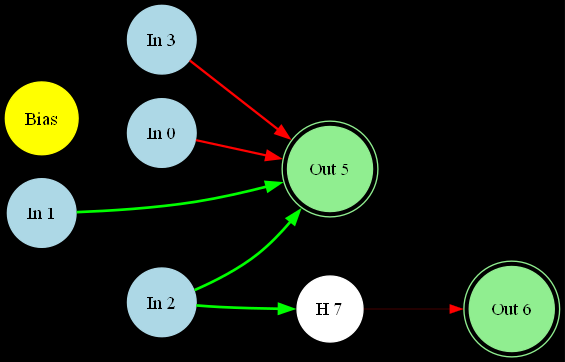
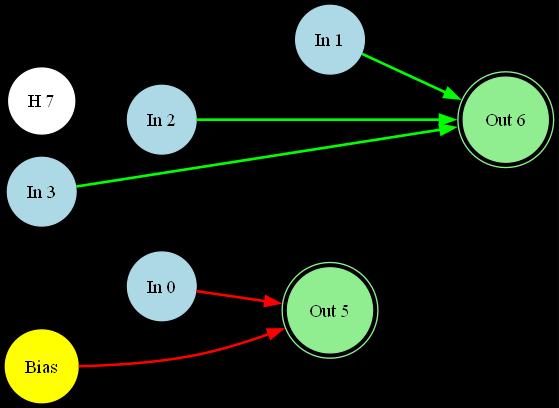
Gotta make sure hits are happening, and hidden node mutation is working correctly

diff --git a/src/NEATRunner.cpp b/src/NEATRunner.cpp
@@ -77,7 +77,8 @@ Genome NEATRunner::initGenome() // at the start of the sim
     // 50% chance per connection
     for (int in = 0; in <= 4; ++in) {
         for (int out = 5; out <= 6; ++out) {
-            if (getRandNum(0, 1) < 0.5) {
+            if (getRandNum(0, 1) < INIT_CONNECTIVITY_RATE)
+            {
                 createConnection(in, out, getRandNum(WEIGHT_MIN, WEIGHT_MAX), true, false, genome);
             }
         }
@@ -146,38 +147,61 @@ void NEATRunner::runGeneration()
 
 // Single genome evaluation (non-parallel)
 double NEATRunner::evaluateGenome(Genome &genome, NeuralNetwork &net, Environment &env) {
-    env.reset();  // Make sure you have this method!
+    env.reset();
     net.reset();
 
-    bool alive= true; 
-    double fit = 0; 
-    for (int step = 0; step < SIM_LIFETIME; step++) {
+    bool alive = true;
+    int numHits = 0;
+    double totalTimeToHit = 0;
+    double closestDistance = std::numeric_limits<double>::infinity();
 
-        if(!alive) 
-            break; 
+    for (int step = 0; step < SIM_LIFETIME; step++)
+    {
+        if (!alive)
+            break;
 
         Eigen::VectorXd input(4);
         input(0) = (env.target.pos(0) - env.rocket.pos(0)) / ENV_WIDTH;
         input(1) = (env.target.pos(1) - env.rocket.pos(1)) / ENV_HEIGHT;
         input(2) = env.rocket.vel(0) / Rocket::MAX_VEL;
         input(3) = env.rocket.vel(1) / Rocket::MAX_VEL;
-        
+
         Eigen::VectorXd output = net.feedForward(input);
         env.rocket.setThrust(output(0));
         env.rocket.setRotation((int)(360 * output(1)));
 
-        // calculate fit 
-        double dist = env.distFromTarget() ; 
-        if (!approxEqual(0.0, dist, 1e-6)){ // if it is 0 it's alr account for 
-            fit+= 1/(dist*dist) ;  // squared distance 
-        }
+        double dist = env.distFromTarget();
+        closestDistance = std::min(closestDistance, dist);
 
+        // Check if target was just hit
+        int previousHits = env.score;
         alive = env.update(0.016f);
 
+        if (env.score > previousHits)
+        {
+            numHits++;
+            totalTimeToHit += step; // Time penalty for slow hits
+        }
     }
-    fit = .9*env.score + fit/SIM_LIFETIME ; 
 
-    return fit; //TODO: MAKE SURE SCORE IS ACCURATEly getting updated when target is eaten  
+    double fitness = 0.0;
+
+    // Primary objective: number of hits (heavily weighted)
+    fitness += numHits * 1000.0;
+
+    // Secondary: efficiency (fewer steps to get hits)
+    if (numHits > 0)
+    {
+        double avgTimePerHit = totalTimeToHit / numHits;
+        double timeEfficiency = 1.0 - (avgTimePerHit / SIM_LIFETIME);
+        fitness += numHits * timeEfficiency * 500.0;
+    }
+
+    // Tertiary: encourage approaching targets even without hits
+    double distanceReward = (1.0 - (closestDistance / std::max(ENV_WIDTH, ENV_HEIGHT))) * 50.0;
+    fitness += distanceReward;
+
+    return std::max(0.0, fitness); // Ensure non-negative //TODO: MAKE SURE SCORE IS ACCURATEly getting updated when target is eaten
 }
 std::vector<ReplayFrame> NEATRunner::evaluateGenome(Genome &genome, NeuralNetwork &net, Environment &env, bool replay) {
     env.reset();  
@@ -259,12 +283,12 @@ void NEATRunner::saveGenerationResults()
 
     gen_json["bestSpecies"] = bestPerformingSpecies->id; 
     gen_json["worstSpecies"] = worstPerformingSpecies->id; 
-    
     gen_json["gensSinceInnovation"] = gensSinceInnovation; 
     
     // replay the champ
     // the best performer from the best species 
-    Genome champ = bestPerformingSpecies->members.front();
+    Genome champ = bestPerformingGenome; 
+    gen_json["champSpecies"] = champ.speciesID; 
     Environment replayEnv(ENV_WIDTH, ENV_HEIGHT);
     NeuralNetwork replayNet(champ, TANH);
 
@@ -571,6 +595,7 @@ double NEATRunner::calcCompDistance(Genome& parent1, Genome& parent2){
 void NEATRunner::keepTrackOfGenomeStats(Genome &genome){
     if(bestRawFit == 0.0 || genome.fitness > bestRawFit){
         bestRawFit = genome.fitness; 
+        bestPerformingGenome= genome; 
     }    
     if(worstRawFit == 0.0 || genome.fitness < worstRawFit){
         worstRawFit = genome.fitness; 

diff --git a/analysis/show_training_results.py b/analysis/show_training_results.py
@@ -15,7 +15,7 @@ from read_data import getConstantData, getGenerationData
 import graphviz 
 # ---------- User options ----------
 releaseMode = True
-GEN_STEP = 1000             
+GEN_STEP = 50             
 UPDATE_GRAPH_ON_GEN = True  # we update graphs only when generation changes
 # ----------------------------------
 
@@ -166,7 +166,6 @@ def render_species_graph_to_surf(width, height):
     Renders the Species Connectivity Graph with:
      Custom color map per species
      Optional legend toggle
-     Optional markers & centroids per species
     """
     if len(species_categories) == 0:
         return None
@@ -204,7 +203,7 @@ def render_species_graph_to_surf(width, height):
             color=color
         )
 
-        # ✅ Compute centroid for this species
+        #  Compute centroid for this species
         centroid_x = np.mean(nodes[mask])
         centroid_y = np.mean(conns[mask])
 
@@ -236,7 +235,7 @@ def render_species_graph_to_surf(width, height):
     ax.set_ylabel("Connections")
     ax.set_title("Population Connectivity by Species")
 
-    # ✅ Toggle legend display
+    # Toggle legend display
     if show_species_legend:
         ax.legend(fontsize='small', markerscale=1, loc='best')
 
@@ -257,8 +256,8 @@ def render_champ_neural_network(width ,height , filename='champion_nn'):
     dot.attr(rankdir='LR')  # Left-to-right layout
     dot.attr(bgcolor='black')  
     #dot = dot.unflatten(stagger = 3)
-    bestSpecies = genData.get('bestSpecies', 0) 
-    genome  = genData.get('species',[])[bestSpecies].get('members', [])[0]
+    champSpecies = genData.get('champSpecies', 0) 
+    genome  = genData.get('species',[])[champSpecies].get('members', [])[0]
     
     # Add nodes
     for node in genome["nodes"]:
@@ -282,13 +281,14 @@ def render_champ_neural_network(width ,height , filename='champion_nn'):
         w = conn["weight"]
 
         color = "green" if w > 0 else "red"
-        width = str(min(max(abs(w) * 2, 0.2), 3))  # thicker lines = stronger connections
+        width = str(min(max(abs(w) * 2, 1), 3))  # thicker lines = stronger connections
 
         dot.edge(in_node, out_node, label=f"{w:.2f}", color=color, penwidth=width)
 
     # Save & render
-    u = dot.unflatten(stagger=2)
+    u = dot.unflatten(stagger=3)
     u.render(filename, cleanup=True)
+    #dot.render(filename, cleanup=True)
     
     nn_image = pygame.image.load(filename+".png")
     nn_image = pygame.transform.smoothscale(nn_image, (env_w*2, env_h))

diff --git a/include/NEATRunner.hpp b/include/NEATRunner.hpp
@@ -42,20 +42,21 @@ struct ReplayFrame{
 }; 
 class NEATRunner{
 public:
-    static constexpr int POP_SIZE = 1000; // can go up to popsize = 1000 if needed  
+    static constexpr int POP_SIZE = 300; // can go up to popsize = 1000 if needed  
     static constexpr int ENV_WIDTH = 400, ENV_HEIGHT=400; 
-    static constexpr int SIM_LIFETIME =750; // how many frames each genome gets  
+    static constexpr int SIM_LIFETIME =1500; // how many frames each genome gets  
     static constexpr int STAGNATION_THRESHOLD = 15 ; // species are considered stagnant after this amt of gens without improvement in their best fitness
+    static constexpr float INIT_CONNECTIVITY_RATE= .85; // originally .5
     static constexpr double WEIGHT_MUTATION_RATE = 0.8;
     static constexpr double WEIGHT_PERTURB_CHANCE = 0.9;
     static constexpr double PERTURB_DELTA = 0.1;
     static constexpr double WEIGHT_MIN = -1.0;
     static constexpr double WEIGHT_MAX = 1.0;
     static constexpr double ADD_NODE_RATE = .03f; //0.03;
-    static constexpr double ADD_LINK_RATE = 0.15f; // .05 // use 0.3 for very large pops
+    static constexpr double ADD_LINK_RATE = 0.05f; // .05 // use 0.3 for very large pops
     static constexpr float C1=1.0f, // how much weights excess genes have in differentiating species
     C2=1.0f, // how much weight disjoint genes have  
-    C3= 3.f, //.4f, // how much weight weight differences have ; for larger pops should be increased 
+    C3= .4f, //.4f, // how much weight weight differences have ; for larger pops should be increased 
     COMP_THRESHOLD=4.0f; // should change for larger pops  
     int globalInnvNum=0;
     int genNum=0; 
@@ -64,6 +65,7 @@ public:
     int gensSinceInnovation=0; 
     Species * bestPerformingSpecies = nullptr; // based off sum of adjusted fitness 
     Species * worstPerformingSpecies = nullptr; 
+    Genome bestPerformingGenome;
     double bestAdjFit ; // raw_fit/species_size; helps innovative genomes from worse species be more competitive 
     double  bestRawFit; 
     double  worstRawFit; 

diff --git a/include/Rocket.hpp b/include/Rocket.hpp
@@ -16,8 +16,8 @@ public:
     Eigen::Vector2f vel;  
 
     static constexpr float GRAVITY = 35; //350; 
-    static constexpr float MAX_THRUST =360;// 700; 
-    static constexpr float MAX_VEL = 600; 
+    static constexpr float MAX_THRUST =200;// 700; 
+    static constexpr float MAX_VEL = 500; 
     
     Rocket(float x, float y ){
         pos<<x , y; 

diff --git a/src/main.cpp b/src/main.cpp
@@ -7,7 +7,7 @@ int main() {
     
     #ifdef NDEBUG
         // Release build
-        int generations = 100000; // release can handles much more generations much faster (1000+)
+        int generations = 1000; // release can handles much more generations much faster (1000+)
     #else
         // Debug build
         int generations = 10;
